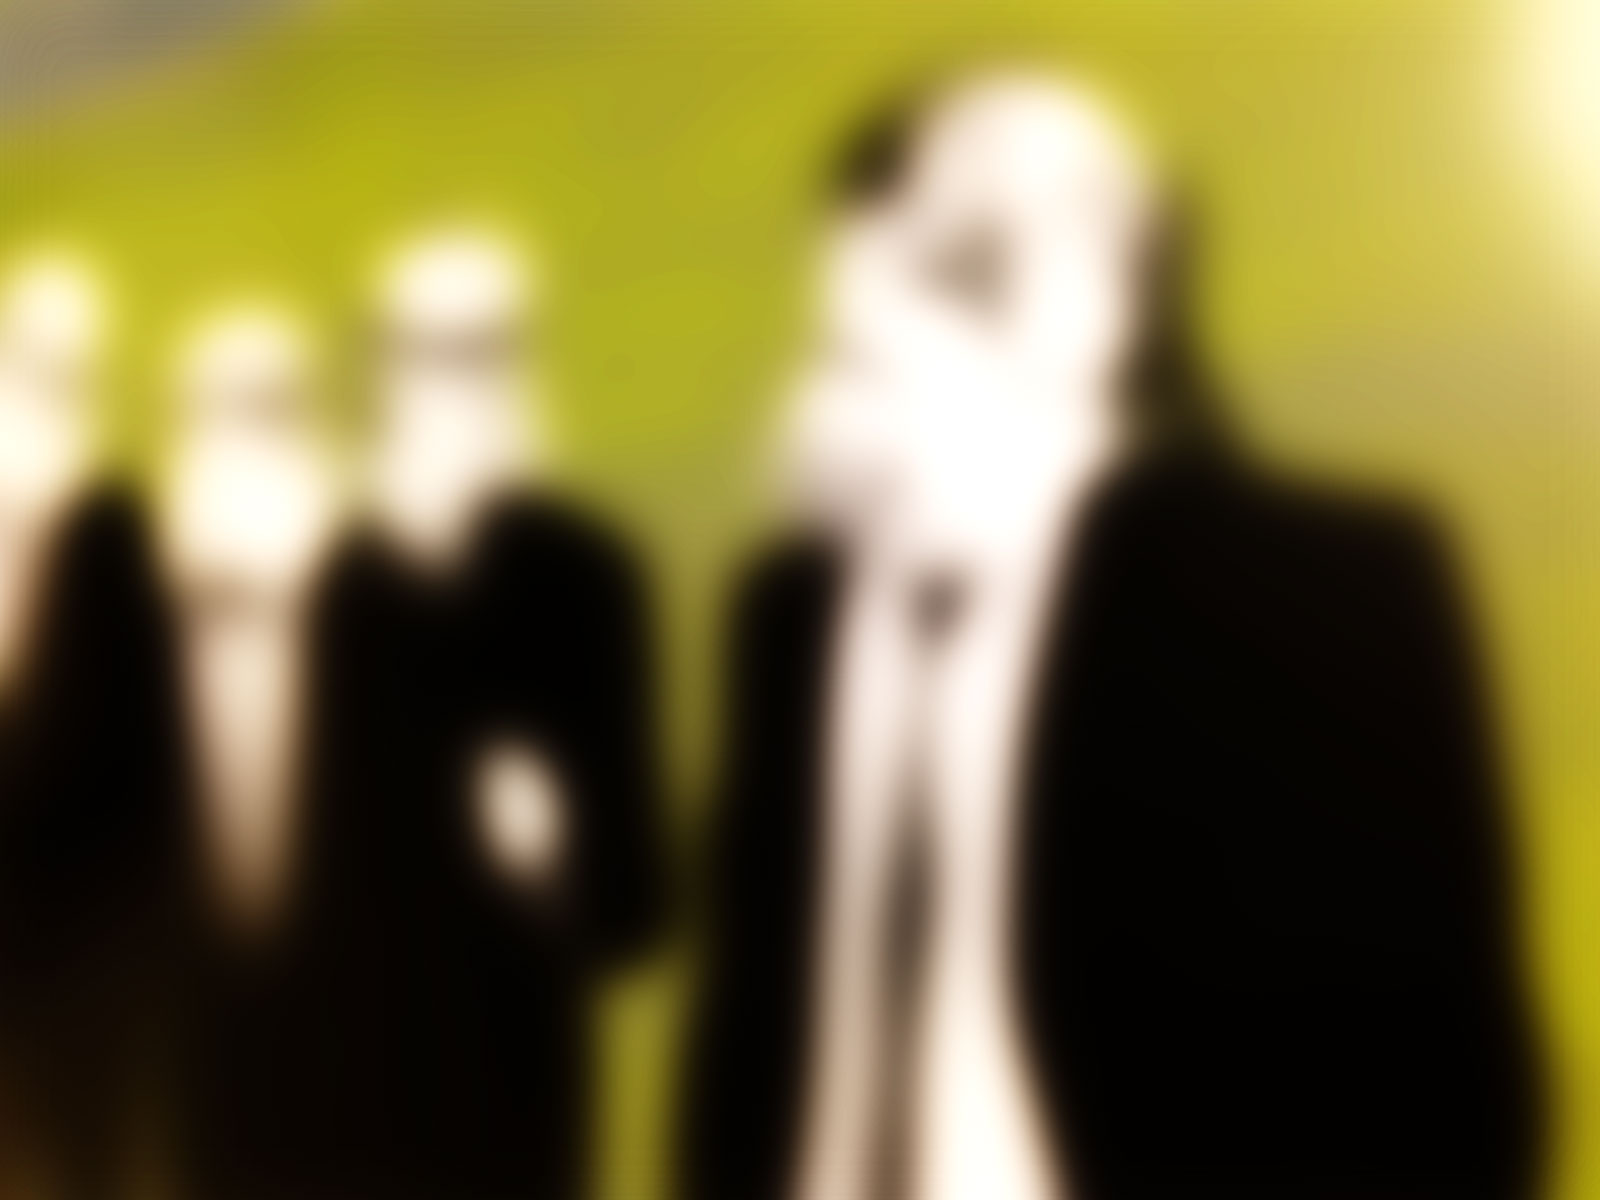
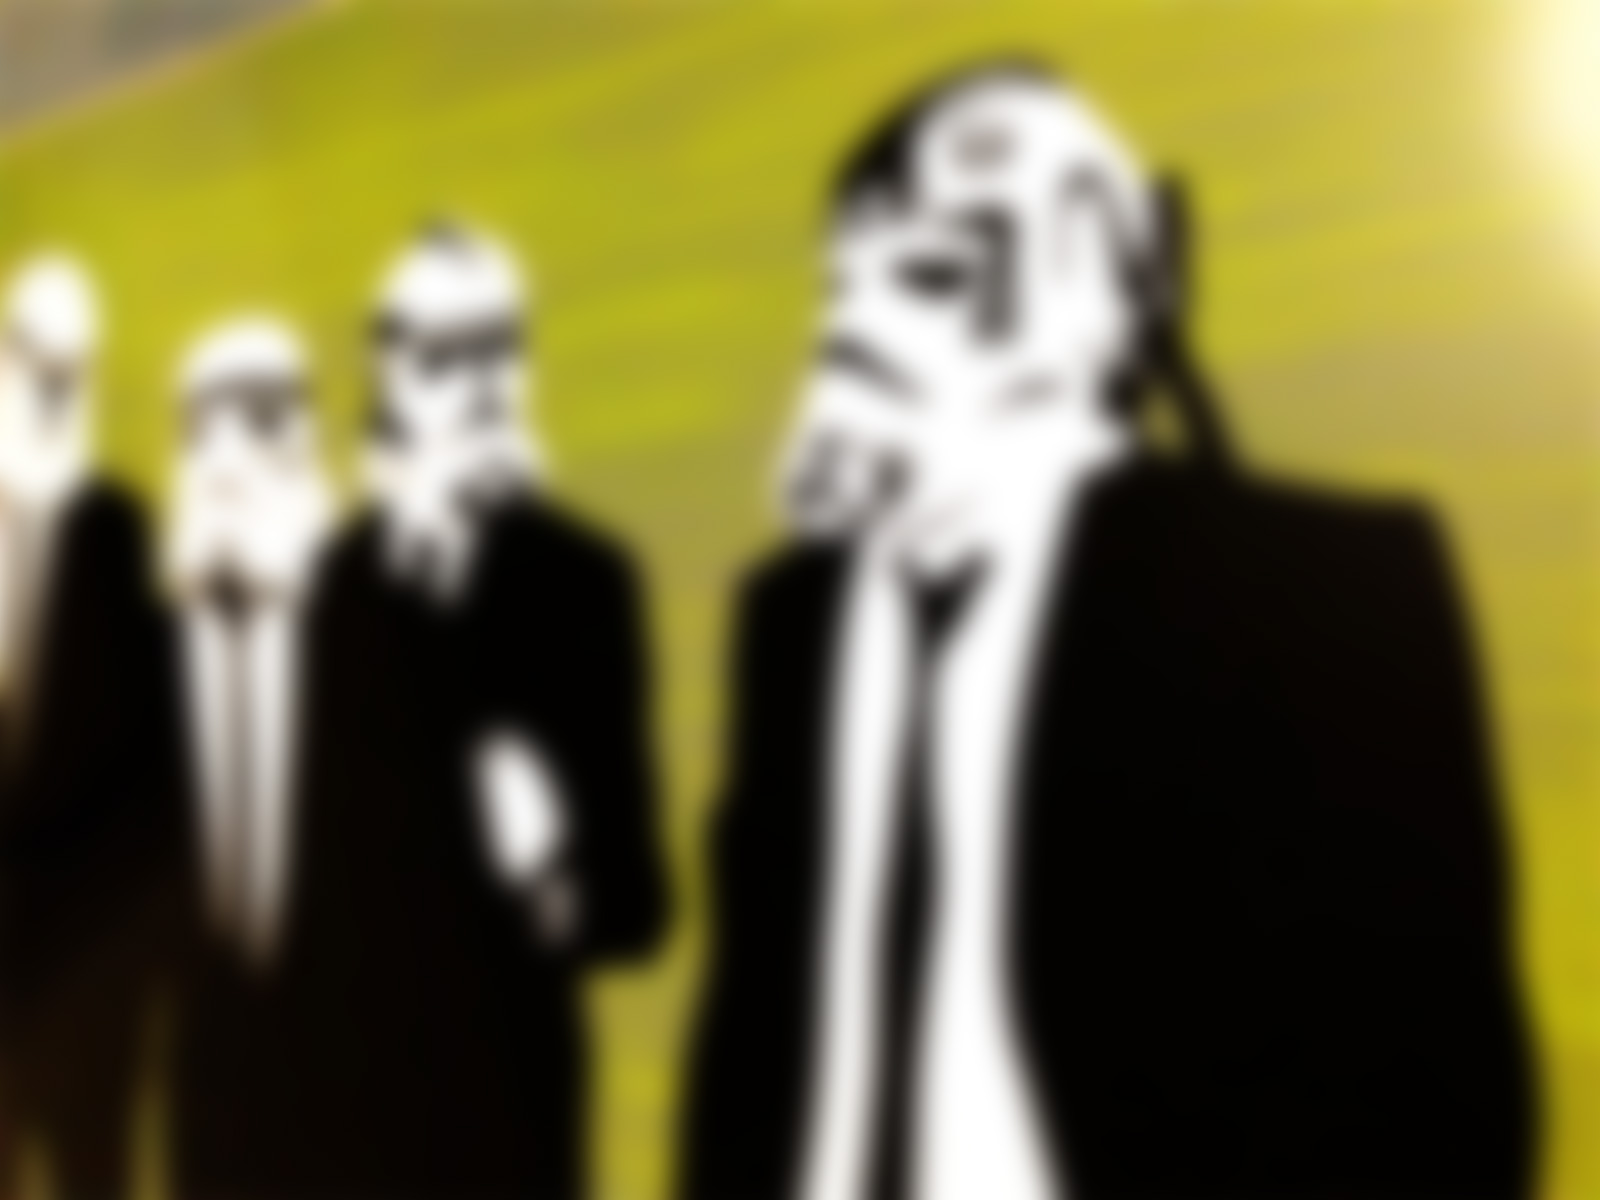
Adding Axe Cop Star Wars and tweaking blur on images.

diff --git a/static/css/main.css b/static/css/main.css
@@ -94,15 +94,21 @@ textarea {
    ========================================================================== */
 
 .evil-dead header {
-    background: url(/static/img/evil-dead.jpg) no-repeat;
+    background-image: url(/static/img/evil-dead.jpg);
 }
 
 .reservoir-troopers header {
-    background: url(/static/img/reservoir-troopers.jpg) no-repeat;
+    background-image: url(/static/img/reservoir-troopers.jpg);
+}
+
+.axe-cop-star-wars header {
+    background-image: url(/static/img/axe-cop-star-wars.jpg);
 }
 
 header {
     background-color: #444;
+    background-position: center center;
+    background-repeat: no-repeat;
     background-size: 100% !important;
     color: #fff;
     font-family: 'Minion Pro', Georgia, serif;
@@ -159,6 +165,12 @@ nav li:hover {
 .reservoir-troopers nav .home-link {
     background-color: #bfb521;
     background-color: rgba(191, 181, 33, 0.4);
+}
+
+.axe-cop-star-wars nav li:hover,
+.axe-cop-star-wars nav .home-link {
+    background-color: #594c3c;
+    background-color: rgba(89, 76, 60, 0.4);
 }
 
 nav a {

diff --git a/app.py b/app.py
@@ -33,6 +33,7 @@ def render_template(template_name):
             context['body_class'] = random.choice([
                 'evil-dead',
                 'reservoir-troopers',
+                'axe-cop-star-wars',
             ])
 
             return render(
